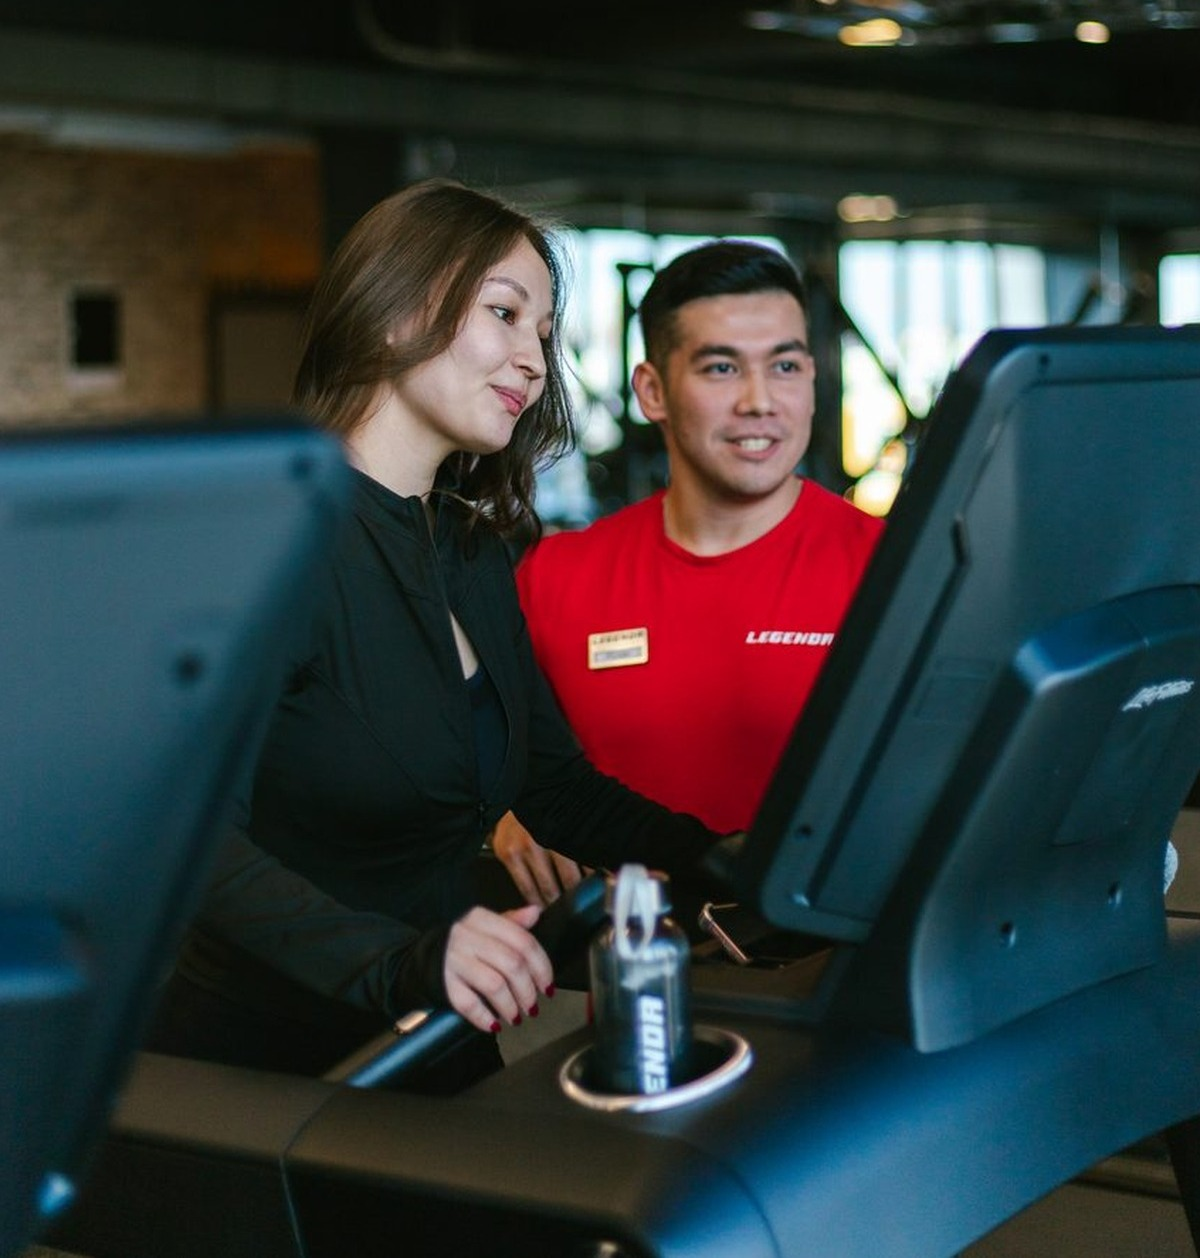
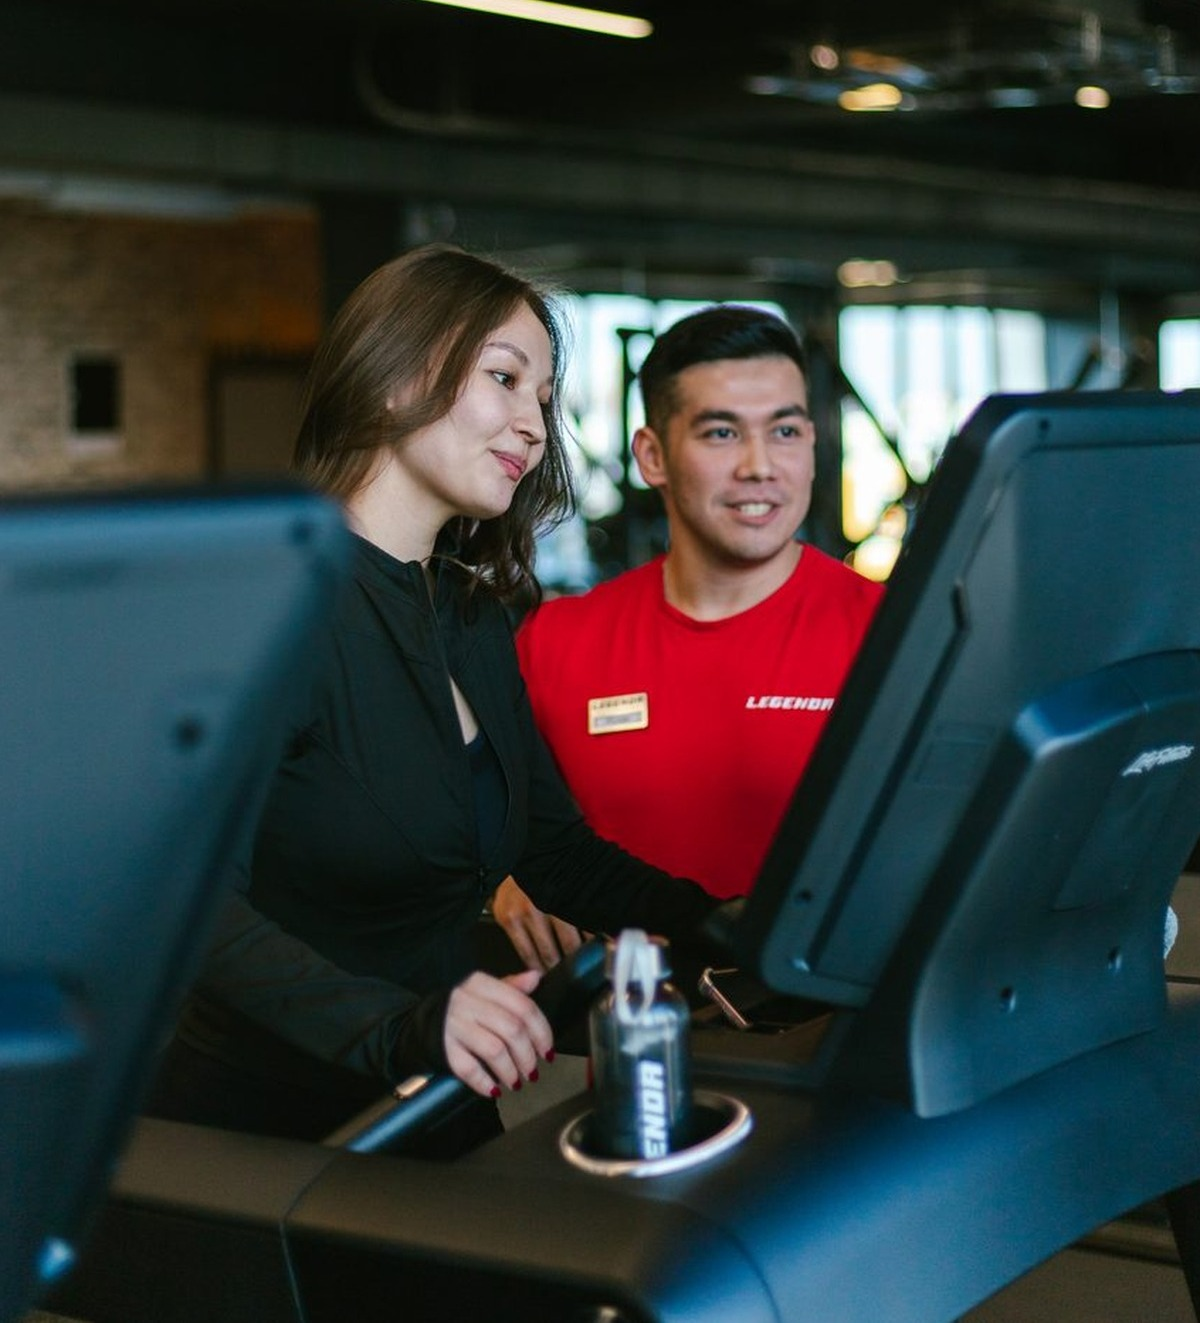
Ещё удлинить hero: зазор под слоганом
Головы ниже логотипа и «МЕЖДУНАРОДНАЯ СЕТЬ…» с видимой тёмной полосой фото над волосами.

diff --git a/styles.css b/styles.css
@@ -215,8 +215,8 @@ button {
   height: 100%;
   min-height: 620px;
   object-fit: cover;
-  /* Moderate headroom: heads clear below logo+tagline */
-  object-position: center 30%;
+  /* Heads clear below logo+tagline with visible dark gap */
+  object-position: center 28%;
 }
 
 .hero__shade {
@@ -1145,7 +1145,7 @@ button {
     height: 100%;
     min-height: 0;
     object-fit: cover;
-    object-position: center 28%;
+    object-position: center 26%;
   }
 
   .hero__shade {
